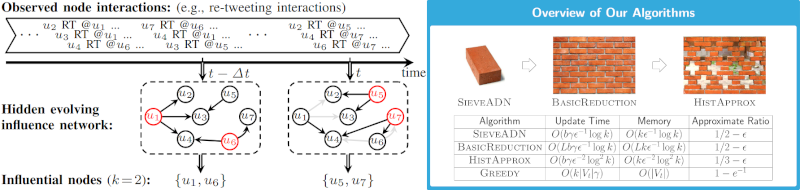
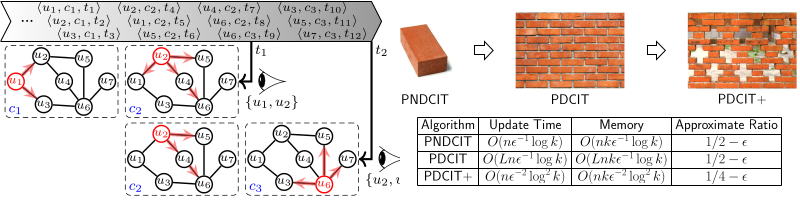
Update published html files.

diff --git a/article/conference_list/index.html b/article/conference_list/index.html
@@ -33,25 +33,25 @@
 <h2>Table of Contents</h2>
 <div id="text-table-of-contents" role="doc-toc">
 <ul>
-<li><a href="#org5f2f198">主要国际会议</a>
+<li><a href="#org84e2de4">主要国际会议</a>
 <ul>
-<li><a href="#org8372585">机器学习、数据挖掘、人工智能等</a></li>
-<li><a href="#org7d1a25d">网络安全</a></li>
+<li><a href="#orga7455a6">机器学习、数据挖掘、人工智能等</a></li>
+<li><a href="#orgf322459">网络安全</a></li>
 </ul>
 </li>
-<li><a href="#org4b25532">国际期刊黑名单（计算机）</a></li>
+<li><a href="#orgdd8fa4b">国际期刊黑名单（计算机）</a></li>
 </ul>
 </div>
 </div>
-<div id="outline-container-org5f2f198" class="outline-2">
-<h2 id="org5f2f198">主要国际会议</h2>
-<div class="outline-text-2" id="text-org5f2f198">
+<div id="outline-container-org84e2de4" class="outline-2">
+<h2 id="org84e2de4">主要国际会议</h2>
+<div class="outline-text-2" id="text-org84e2de4">
 </div>
-<div id="outline-container-org8372585" class="outline-3">
-<h3 id="org8372585">机器学习、数据挖掘、人工智能等</h3>
-<div class="outline-text-3" id="text-org8372585">
+<div id="outline-container-orga7455a6" class="outline-3">
+<h3 id="orga7455a6">机器学习、数据挖掘、人工智能等</h3>
+<div class="outline-text-3" id="text-orga7455a6">
 
-<div id="orge8860f8" class="figure">
+<div id="orgefdad5b" class="figure">
 <p><img src="/assets/article/conference_list/MLDMAImap.png" alt="MLDMAImap.png" />
 </p>
 </div>
@@ -61,9 +61,9 @@
 </p>
 </div>
 </div>
-<div id="outline-container-org7d1a25d" class="outline-3">
-<h3 id="org7d1a25d">网络安全</h3>
-<div class="outline-text-3" id="text-org7d1a25d">
+<div id="outline-container-orgf322459" class="outline-3">
+<h3 id="orgf322459">网络安全</h3>
+<div class="outline-text-3" id="text-orgf322459">
 <p>
 Tier 1:
 </p>
@@ -99,9 +99,9 @@ Tier 2:
 </div>
 </div>
 </div>
-<div id="outline-container-org4b25532" class="outline-2">
-<h2 id="org4b25532">国际期刊黑名单（计算机）</h2>
-<div class="outline-text-2" id="text-org4b25532">
+<div id="outline-container-orgdd8fa4b" class="outline-2">
+<h2 id="orgdd8fa4b">国际期刊黑名单（计算机）</h2>
+<div class="outline-text-2" id="text-orgdd8fa4b">
 <ul class="org-ul">
 <li>IEEE Access</li>
 <li>Scientific Reports</li>

diff --git a/index.html b/index.html
@@ -30,9 +30,9 @@
 <hr>
 
         <section id="content">
-    <div id="outline-container-orgdc58e34" class="outline-2">
-<h2 id="orgdc58e34">Biography</h2>
-<div class="outline-text-2" id="text-orgdc58e34">
+    <div id="outline-container-org3852119" class="outline-2">
+<h2 id="org3852119">Biography</h2>
+<div class="outline-text-2" id="text-org3852119">
 <p>
 Junzhou Zhao is an associate professor at the School of Cyber Science and Engineering, Xi'an
 Jiaotong University (XJTU). Prior to joining XJTU, he was a postdoctoral researcher at the School of
@@ -49,18 +49,18 @@ protection and security.
 </p>
 </div>
 </div>
-<div id="outline-container-org234b343" class="outline-2">
-<h2 id="org234b343">Research</h2>
-<div class="outline-text-2" id="text-org234b343">
+<div id="outline-container-org1f984e6" class="outline-2">
+<h2 id="org1f984e6">Research</h2>
+<div class="outline-text-2" id="text-org1f984e6">
 <ul class="org-ul">
 <li>数据安全与隐私保护：网络流量分析、隐私计算、隐私保护机器学习、大模型与智能体安全等。</li>
 <li>大数据近似计算与优化：大规模网络/图/流数据近似计算与优化、机器学习等。</li>
 </ul>
 </div>
 </div>
-<div id="outline-container-org743c8b6" class="outline-2">
-<h2 id="org743c8b6">Courses</h2>
-<div class="outline-text-2" id="text-org743c8b6">
+<div id="outline-container-org0e5b30d" class="outline-2">
+<h2 id="org0e5b30d">Courses</h2>
+<div class="outline-text-2" id="text-org0e5b30d">
 <ul class="org-ul">
 <li>本科生课程 MATH200327：概率统计与随机过程，春</li>
 <li>本科生课程 COMP401227：现代密码学，春上</li>
@@ -68,9 +68,9 @@ protection and security.
 </ul>
 </div>
 </div>
-<div id="outline-container-org91ae7b8" class="outline-2">
-<h2 id="org91ae7b8">Contact</h2>
-<div class="outline-text-2" id="text-org91ae7b8">
+<div id="outline-container-org1267ceb" class="outline-2">
+<h2 id="org1267ceb">Contact</h2>
+<div class="outline-text-2" id="text-org1267ceb">
 <p>
 E-mail: junzhou.zhao AT xjtu DOT edu DOT cn
 </p>

diff --git a/article/lab_intro/index.html b/article/lab_intro/index.html
@@ -29,13 +29,13 @@
 <hr>
 
         <section id="content">
-    <div id="outline-container-org0737091" class="outline-2">
-<h2 id="org0737091">实验室简介</h2>
-<div class="outline-text-2" id="text-org0737091">
+    <div id="outline-container-org722a51e" class="outline-2">
+<h2 id="org722a51e">实验室简介</h2>
+<div class="outline-text-2" id="text-org722a51e">
 <p>课题组隶属于西安交通大学智能网络与网络安全教育部重点实验室，主体位于西安交通大学兴庆校区<a href="https://mp.weixin.qq.com/s?__biz=MzUzMzEwMDk3Mg==&amp;mid=2247483906&amp;idx=1&amp;sn=7853e7efb9372ca8a74c500714b6817b&amp;poc_token=HJSTtmijXbN6akO1-ierCVbb8kCL0xJtMiX2ZAlV">网络中心三楼</a>。实验室师生来自计算机科学与技术、控制科学与工程、信息与通信工程、网络空间安全、数学五个一级学科，以智能网络与网络化系统为对象，研究<font color="red">网络化系统的大数据分析、优化运行和系统安全</font>等重大共性问题。</p>
 
 
-<div id="org3263c11" class="figure">
+<div id="orgab62daf" class="figure">
 <p><img src="/assets/article/lab_intro/lab.png" alt="lab.png" style="margin-bottom:1em;" />
 </p>
 </div>
@@ -43,7 +43,7 @@
 <p>实验室拥有世界一流的科研环境。实验室网络以百 G 带宽直接接入西安交大校园网、CERNET 西北网和中国电信。实验室为每位同学配置高性能工作站，实验室机房配有多种专用网络设备、高性能服务器、海量数据存储阵列等。</p>
 
 
-<div id="orgf54deb1" class="figure">
+<div id="orgee4844b" class="figure">
 <p><img src="/assets/article/lab_intro/equipment.png" alt="equipment.png" style="margin-bottom:1em;" />
 </p>
 </div>
@@ -51,7 +51,7 @@
 <p>实验室向同学提供优良、宽松的学习与生活环境，配有会议室、讨论室、设备间，以及微波炉、洗衣机、冰箱等生活电器。实验室学习条件良好、科研氛围浓厚，学生毕业去向包括入选<a href="https://bjb.xjtu.edu.cn/info/1010/2873.htm">华为“天才少年”</a>、腾讯研究院、字节、阿里等互联网头部企业，以及国家网络安全相关部门。</p>
 
 
-<div id="org4407dd4" class="figure">
+<div id="orgf6affa6" class="figure">
 <p><img src="/assets/article/lab_intro/workspace.png" alt="workspace.png" />
 </p>
 </div>
@@ -59,7 +59,7 @@
 <p>欢迎对<font color="red">大数据分析与机器学习</font>（优化与近似算法、LLM、图挖掘）、<font color="red">数据安全与隐私计算</font>（网络流量分析、差分隐私技术、应用密码学、隐私保护机器学习）等研究领域感兴趣的同学加入！</p>
 
 
-<div id="orgc4ca8e9" class="figure">
+<div id="org33eb2f4" class="figure">
 <p><img src="/assets/article/lab_intro/group.png" alt="group.png" style="margin-bottom:1em;" />
 </p>
 </div>

diff --git a/contact/index.html b/contact/index.html
@@ -29,9 +29,9 @@
 <hr>
 
         <section id="content">
-    <div id="outline-container-org822bfcf" class="outline-2">
-<h2 id="org822bfcf">Contact</h2>
-<div class="outline-text-2" id="text-org822bfcf">
+    <div id="outline-container-org4feb5eb" class="outline-2">
+<h2 id="org4feb5eb">Contact</h2>
+<div class="outline-text-2" id="text-org4feb5eb">
 <p>陕西省西安市碑林区咸宁西路 28 号，西安交通大学智网实验室 1088 信箱 (P.O. Box
 1088#, Xi'an Jiaotong University, No.28, Xianning West Road, Xi'an 710049, Shaanxi
 Prov., P. R. China)

diff --git a/courses/crypt-adv/index.html b/courses/crypt-adv/index.html
@@ -30,9 +30,9 @@
 <hr>
 
         <section id="content">
-    <div id="outline-container-org4cac916" class="outline-2">
-<h2 id="org4cac916">密码学理论与实践</h2>
-<div class="outline-text-2" id="text-org4cac916">
+    <div id="outline-container-org8fe9f75" class="outline-2">
+<h2 id="org8fe9f75">密码学理论与实践</h2>
+<div class="outline-text-2" id="text-org8fe9f75">
 <ul class="org-ul">
 <li>研究生课程 AUTO712705：《密码学理论与实践》 (Theory and Practice of Cryptography)，秋下，32 学时</li>
 </ul>

diff --git a/courses/crypt/index.html b/courses/crypt/index.html
@@ -30,9 +30,9 @@
 <hr>
 
         <section id="content">
-    <div id="outline-container-org35724ed" class="outline-2">
-<h2 id="org35724ed">现代密码学</h2>
-<div class="outline-text-2" id="text-org35724ed">
+    <div id="outline-container-org42b2019" class="outline-2">
+<h2 id="org42b2019">现代密码学</h2>
+<div class="outline-text-2" id="text-org42b2019">
 <ul class="org-ul">
 <li>本科生课程 COMP401227：《现代密码学》 (Modern Cryptography)，2026 年春上</li>
 </ul>

diff --git a/courses/stat/index.html b/courses/stat/index.html
@@ -29,9 +29,9 @@
 <hr>
 
         <section id="content">
-    <div id="outline-container-orgdc6d1b3" class="outline-2">
-<h2 id="orgdc6d1b3">概率统计与随机过程</h2>
-<div class="outline-text-2" id="text-orgdc6d1b3">
+    <div id="outline-container-orgb55b9d9" class="outline-2">
+<h2 id="orgb55b9d9">概率统计与随机过程</h2>
+<div class="outline-text-2" id="text-orgb55b9d9">
 <ul class="org-ul">
 <li>本科生课程 MATH200327：《概率统计与随机过程》(Probability Theory and Stochastic
 Process)，春</li>